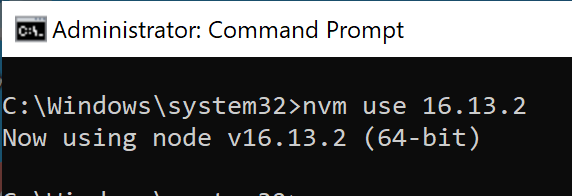
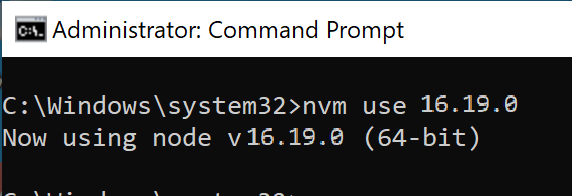
added bad examples of COS and user stories + updates npm install versions

Changed region(s): [[0.4161, 0.6429, 0.6241, 0.7653], [0.7133, 0.4898, 0.9213, 0.5816]]

diff --git a/tutorials/week1-getting-started.md b/tutorials/week1-getting-started.md
@@ -20,7 +20,7 @@ If you run into any difficulties following any of these steps, please post (in a
 
 Node.js is a JavaScript runtime built on Chrome's V8 JavaScript engine.
 
-For this class, you will need Node.js version 16 (16.17 is the latest version at time of writing, although any 16.x should work in theory). 
+For this class, you will need Node.js version 16 (16.17 was the latest version at time of writing which was updated to 16.19, although any 16.x should work in theory). 
 There are many ways that you can install Node.js: for instance, you can use a package manager like
 `snap` or `homebrew` to install it; you can download an installer directly from the Node.js website, and you can,
 of course, build it from source. However, due to the complexity of running different Node.js versions on the same machine, we *very strongly* suggest using `nvm`, as explained below.
@@ -34,7 +34,7 @@ have previously installed Node.js.
 
 ## Installing NodeJS with NVM for Windows
 
-1. Download `nvm-setup.zip` from the most recent release of [nvm-windows](https://github.com/coreybutler/nvm-windows/releases) (at time of writing this document, version 1.1.9).
+1. Download `nvm-setup.zip` from the most recent release of [nvm-windows](https://github.com/coreybutler/nvm-windows/releases) (at time of writing this document, version was 1.1.9 which is now updated to 1.1.10).
    - ![image](./assets/week1-getting-started/node/download-nvmw.png)
 2. Extract the contents of `nvm-setup.zip` and run the executable `nvm-setup.exe`.
    - This should open the nvm installation wizard.
@@ -47,8 +47,8 @@ have previously installed Node.js.
    - ![image](./assets/week1-getting-started/node/nvmw-verification.png)
 10. Run the command `nvm list available` to display all available NodeJS versions.
    - ![image](./assets/week1-getting-started/node/nvmw-list-available.png)
-11. Install the latest LTS (Long term supported, as opposed to the "development") version of Node.js available using the command `nvm install 16.13.2`.
-12. To use this version of NodeJS, run the command `nvm use 16.13.2`.
+11. Install the latest LTS (Long term supported, as opposed to the "development") version of Node.js available using the command `nvm install 16.19.0`.
+12. To use this version of NodeJS, run the command `nvm use 16.19.0`.
 13. Now, NodeJS should be installed and ready for use. To verify the installation run the below commands:
    - `node -v`
    - `npm -v`

diff --git a/tutorials/week1-user-stories.md b/tutorials/week1-user-stories.md
@@ -66,6 +66,9 @@ As a player in covey.town, I want to see how well I’m doing at connect4 compar
 ### User Story #4: 
 As a player in covey.town, I want to learn different strategies for connect4, so I can win more games. (Extension)
 
+### User Story #5: 
+As a user of Covey.Town, I want to be able to interact with other users in different activities like private chat, playing games, etc. while providing ability to customize user avatars to make the town more fun.  (Essential but too general. Best to split it in 3 different stories one for private chat, one for games and one for customization.)
+
 ## Conditions of Satisfaction:
 ### For User Story #2:
 * There should be a Conncect4 area in the town, where players can play Connect4. (Essential)
@@ -83,6 +86,11 @@ As a player in covey.town, I want to learn different strategies for connect4, so
 * The leaderboard should show the current score of all the Connect4 games currently in progress. (Desirable)
 * The leaderboard should show the current score of all the Connect4 games currently in progress, and any player can click on the entry for a game and spectate that game. (Desirable; might be Extension, depending on the expertise of the team).
 * The leaderboard should show the lifetime standings of all the players who have ever logged in to this town. (Extension)
+
+### For User Story #5:
+* User will be able to join an interactable area which includes leaderboards for all activities (This is too general and should be split in several conditions of satisfactions. For example, joining an area itself can be independent of being able to view leaderboard. Also each activity's leaderboard should have its own condition of satisfaction. There could be several conditions for leaderboard alone to describe how data is organized)
+* User is able interact with an instance of interactable area created by another player (This COS is vague. What does interact mean? Does it mean enter an area or do something else?) 
+* User is not allowed to join an interactable area of another player in a town, if the user was not invited (Desirable)
 
 
 [Reference](https://www.simplilearn.com/tutorials/agile-scrum-tutorial/user-stories#how_to_write_user_stories)
